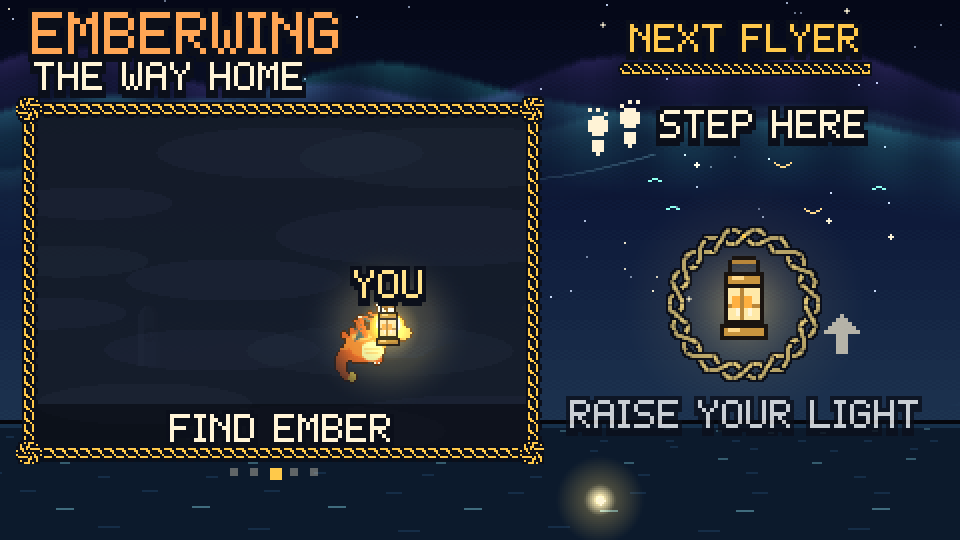
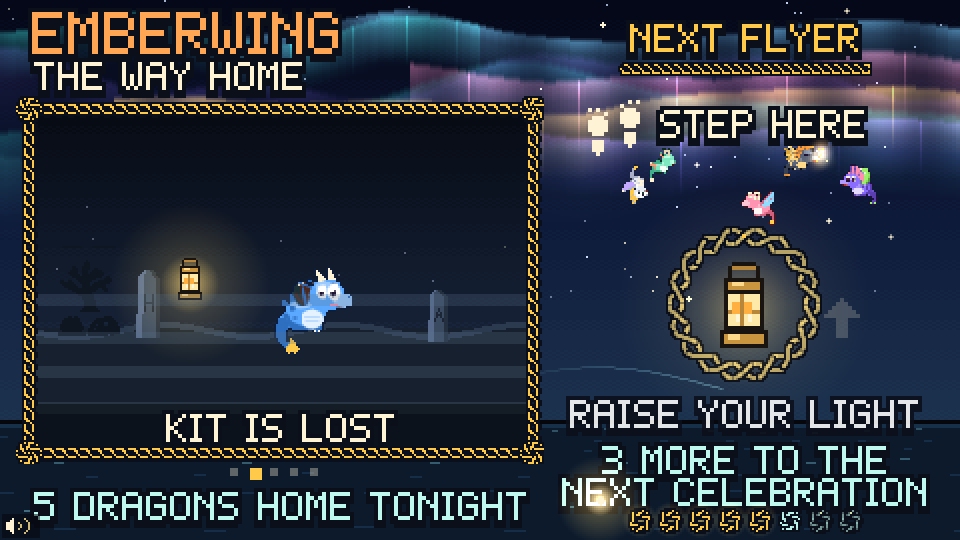
docs, pitch images and notes for the dragons, flock, sound and routes

diff --git a/README.md b/README.md
@@ -2,11 +2,11 @@
 
 A 40-second lobby interactive for the Walla Walla Symphony's **Symphonicon** (Nov 5, Cordiner Hall), paired with *From the Motion Picture How to Train Your Dragon* (John Powell), played in Act II by the Walla Walla Symphony Youth Orchestra.
 
-A young dragon, Ember, is blown off course in a storm. The guest is the lighthouse keeper. Their light finds Ember in the fog, teaches it to fly, and guides it home to its flock. Each guest's flight path becomes a ribbon in the aurora and stays there for the rest of the evening.
+Emberwings are a kind of small dragon. Every guest rescues a different one: a young emberwing with its own name, colors, wings, horns, tail and personality (Pip sneezes sparks, Juniper loves loops, Bramble is shy at first...) is blown off course in a storm. The guest is the lighthouse keeper. Their light finds the dragon in the fog, teaches it to fly, and guides it home. Every dragon that makes it home joins the flock for the rest of the evening, and its flight path becomes a ribbon in the aurora. The flock on screen is always exactly the dragons people brought home tonight, and every 8th one gets a celebration.
 
 - **One pointer, no clicks.** Mouse, touch, or a motion-capture prop all work. Every "button" is *hover and hold* (a knotwork ring fills in about 1 second).
-- **Works with the sound off.** Every cue is visual. Audio is optional ambience, off by default.
-- **Static site.** Vite plus vanilla JS and Canvas. No server code. Runs on GitHub Pages or any static host.
+- **Sound on, but never needed.** An original folk-style score builds through the flight, with a real brass swell. Every cue is also visual, so the game plays and reads the same muted.
+- **Static site.** Vite plus vanilla JS and Canvas. No server code, no sound files. Runs on GitHub Pages or any static host.
 
 ![Attract screen](design/01-attract-next-flyer.png)
 
@@ -40,7 +40,8 @@ npm run build && npm run preview
 | `?mocapFlipX=1` / `?mocapFlipY=1` | Mirror mocap axes (camera facing the guest) |
 | `?debug` | Start with the debug overlay on |
 | `?scene=flight` | Jump straight to a scene (`attract`, `find`, `flight`, `home`, `end`) |
-| `?seed=5` | Deterministic randomness (for testing) |
+| `?route=1` | Pin one flight route (`0` sea stacks, `1` rain squall, `2` standing stones) instead of taking turns |
+| `?seed=5` | Deterministic randomness, including which dragons get picked (for testing) |
 
 ## Operator hotkeys
 
@@ -52,29 +53,38 @@ Hidden from guests. Nothing on screen mentions them.
 | **R** | Reset to attract |
 | **S** | Skip to the next scene |
 | **D** | Debug overlay (FPS, scene timer, pointer x/y, speed, idle time, mocap status) |
-| **C** | Clear tonight's aurora. Asks on screen first: **Y** clears, anything else keeps |
-| **M** | Ambient audio on/off (off by default) |
+| **C** | Clear tonight's aurora and flock (every saved dragon). Asks on screen first: **Y** clears, anything else keeps |
+| **M** | Sound on/off. On by default, remembered across refreshes |
 | **K** | Calibrate the mocap rig: point at the 4 corner rings and hold still (see below). In the calibration screen **Space** grabs a corner, **Esc** cancels, **Delete** clears the saved calibration |
 | **G** | Reduced motion: AUTO (follows the OS setting), FORCED REDUCED, FORCED FULL. Reduced = no shake, softer flashes, calmer flight camera. Remembered across refreshes |
 | Arrows / Space | Move the pointer / "hold" (desk testing only) |
 
 Before a shift, run through [PLAYTEST.md](PLAYTEST.md) on the real projector.
 
-The aurora (every guest's ribbon, plus the "N dragons home tonight" count) is saved to `localStorage`, so a refresh or a crashed tab doesn't wipe the wall. It starts fresh automatically on a new calendar day. Use **C** to clear it by hand.
+The night (every rescued dragon's seed and name, its ribbon, and the "N dragons home tonight" count) is saved to `localStorage`, so a refresh or a crashed tab doesn't wipe the wall or the flock. It starts fresh automatically on a new calendar day. Use **C** to clear it by hand.
+
+## Sound
+
+Sound is on by default: an original folk-style tune in D mixolydian (harp, tin whistle, drone, hand drum, strings, brass), all synthesized live with Web Audio, so there are no sound files. It's gentle on the attract screen, sparse and windy while you search the fog, builds layer by layer through the flight, and the brass takes the tune at the swell. Hoops chime in key, on the beat; finding the dragon gets a warm chord; every dragon chirps (smaller ones higher). None of it is taken from the film score.
+
+- **Start the station with any key.** Browsers block sound until someone presses a key or clicks. When that's the case the laptop shows **PRESS ANY KEY TO START** and the lantern waits. That first key only starts the station (it doesn't also skip or reset), except **M**, which starts it muted.
+- **Phones** don't get that screen. The first touch turns the sound on.
+- **Speaker icon** in the bottom left corner: waves = sound running, an **X** = muted with **M**, slowly blinking waves = waiting for a key or a touch. The **D** overlay also shows the audio state.
+- Everything you hear has a visual version (hoop bursts, the found burst, the horn icon and rays at the swell, little chirp marks at each dragon's mouth), so a muted run is the same game.
 
 ## Timing (all in `src/config.js`)
 
 | Scene | Target | Notes |
 |---|---|---|
-| Attract | loop | 1 s hold on the lantern starts a run |
-| Title card | 1.3 s | "EMBER IS LOST!" before Find Ember, "NOW FLY HOME!" before the flight. The next scene is paused underneath (`DUR.TITLE`) |
-| Find Ember | ~5-15 s | One instruction at a time, each up at least 2 s: MOVE YOUR LIGHT, FIND THE EYES, HOLD STILL (with a tiny framed demo). The hold ring sits on the eyes and pauses (never resets) when the light slips off. Hints get stronger with active pointing time: bigger eyes at 4 s, a dotted trail to the eyes at 6.5 s, the beam leaning toward them at 9 s. Ember only comes to the light as a last resort at 10.5 s, and the guest still does the hold. Then a 1.6 s "YOU FOUND EMBER!" moment |
-| Flight | ~2-5 s tutorial + 18 s | EMBER FOLLOWS YOUR LIGHT (with an arrow), then FLY THROUGH THE HOOPS. Hoop 1 waits next to Ember until you fly through it (5 s cap), then the timeline starts: 7 more hoops, one every 2 s on the beat, always 8 in total with a "3 / 8" counter. Brass swell at 62% of the timeline, climb at 90%. Autopilot only after 3 s of a still pointer |
-| Home | 6.5 s | Ribbon lifts into the aurora, a shimmer runs across the sky, the counter rolls up, then "HEAR IT LIVE IN ACT II" |
-| End card | 3 s | "ACT II", the title, "LISTEN FOR THE BRASS!". Hold the small lantern to skip |
+| Attract | loop | 1 s hold on the lantern starts a run. Tonight's flock circles above the lantern, and a countdown shows how many more dragons until the next celebration |
+| Title card | 1.3 s | "PIP IS LOST!" before Find, "NOW FLY HOME!" before the flight. The next scene is paused underneath (`DUR.TITLE`) |
+| Find | ~5-15 s | One instruction at a time, each up at least 2 s: MOVE YOUR LIGHT, FIND THE EYES, HOLD STILL (with a tiny framed demo). The hold ring sits on the eyes and pauses (never resets) when the light slips off. Hints get stronger with active pointing time: bigger eyes at 4 s, a dotted trail to the eyes at 6.5 s, the beam leaning toward them at 9 s. The dragon only comes to the light as a last resort at 10.5 s, and the guest still does the hold. Then a 1.6 s "YOU FOUND PIP!" moment |
+| Flight | ~2-5 s tutorial + 18 s | PIP FOLLOWS YOUR LIGHT (with an arrow), then FLY THROUGH THE HOOPS. Hoop 1 waits next to the dragon until you fly through it (5 s cap), then the timeline starts on the next beat: 7 more hoops, one every 2 s on the beat, always 8 in total with a "3 / 8" counter. Brass swell 12 s into the timeline (on a downbeat), where everyone already home tonight flies out to join you. Climb at 90%. Autopilot only after 3 s of a still pointer. Three routes take turns (sea stacks at dusk, a rain squall into clearing sky, low over standing stones under early aurora): only the scenery changes |
+| Home | 4.6 s | The guest's dragon lands in the circle with the rest of tonight's flock, its path lifts into the aurora, and the counter appears once it's on the new number. Every 8th dragon adds a 3.6 s celebration (`DUR.CELEBRATE`): the whole flock does a flyover, the aurora flares, "8 DRAGONS HOME!" |
+| Dragon card | 5 s | The rescued dragon's portrait and name, "THE 9TH EMBERWING HOME TONIGHT", its quirk, and "HEAR IT LIVE IN ACT II / LISTEN FOR THE BRASS!". Hold the small lantern to skip |
 | Scene fades | 0.4 s | `DUR.FADE` |
 
-Measured by the Playwright suite: **~40 s** for a guest who knows what to do, **~49 s** for one who never finds Ember on their own (the test fails above 50 s), and about 52 s for a completely clueless guest who wanders the whole time (`tests/clueless.spec.js`, notes in `notes/clueless-after.md`). **Idle reset:** 10 s without input during Find Ember or Flight returns to attract. The assists only count time while someone is actually pointing, so an abandoned game resets instead of playing itself.
+Measured by the Playwright suite: **~40 s** for a guest who knows what to do, **~49 s** for one who never finds the dragon on their own (the test fails above 50 s), and about 49 s for a completely clueless guest who wanders the whole time (`tests/clueless.spec.js`, `tools/clueless.mjs`). The 8th, 16th, 24th... guest gets 3.6 s more for the celebration. Muted runs take exactly as long. **Idle reset:** 10 s without input during Find or Flight returns to attract. The assists only count time while someone is actually pointing, so an abandoned game resets instead of playing itself. Notes on this round of changes are in `notes/phase3.md`.
 
 **Slow laptops:** the game clock follows real time even when frames drop (it catches up in small steps, `LOOP` in `config.js`), so a choppy laptop doesn't make runs longer. Below about 4 fps it starts to slow down, and a frozen or backgrounded tab only moves the game forward a quarter second when it comes back. The YOURS! label after a run lasts `DUR.YOURS_LABEL` (15 s).
 
@@ -99,7 +109,7 @@ If the light doesn't land where the prop points (offset, squashed, or a keystone
 
 ### Phones
 
-On touch screens the light sits about 40 px above your fingertip (`INPUT.TOUCH_LIFT`), so your finger doesn't cover it or Ember.
+On touch screens the light sits about 40 px above your fingertip (`INPUT.TOUCH_LIFT`), so your finger doesn't cover it or the dragon.
 
 ### HTTPS and WebSockets (important for GitHub Pages)
 
@@ -160,16 +170,21 @@ npm test
 
 This builds the site, serves it, and runs Playwright:
 
-- **`tests/fullrun.spec.js`**: a scripted guest plays a whole run by pointer only. It asserts 35-45 s, that the ribbon persists across a refresh, that a guest who never finds Ember still finishes in time, and that the end card can be skipped.
-- **`tests/idle.spec.js`**: walking away during Find Ember or Flight resets to attract after about 10 s.
+- **`tests/fullrun.spec.js`**: a scripted guest plays a whole run by pointer only. It asserts 35-50 s, that the ribbon persists across a refresh, that a guest who never finds the dragon still finishes within 50 s, and that the dragon card can be skipped.
+- **`tests/idle.spec.js`**: walking away during Find or Flight resets to attract after about 10 s.
 - **`tests/input.spec.js`**: the mocap pointer path, the clear confirmation, the portrait "rotate your phone" hint, and the touch offset.
 - **`tests/runs.spec.js`**: three flights in a row on one page all reach Home, and a cold first run and a second run both get all 8 hoops, each on screen at least 1.5 s before it arrives.
-- **`tests/clueless.spec.js`**: three wandering guests in a row: Find Ember never finishes before 10 s, every instruction is up at least 2 s, every run gets the same 8 hoops.
-- **`tests/story.spec.js`**: the story beats show up when they should: "EMBER IS LOST!" first, the Act II line during Home, the brass swell's wind-up, firing and flock join, and "YOURS!" on attract after a finished run (but not after an idle reset).
+- **`tests/clueless.spec.js`**: three wandering guests in a row: Find never finishes before 10 s, every instruction is up at least 2 s, every run gets the same 8 hoops.
+- **`tests/story.spec.js`**: the story beats show up when they should: the title card first, the Act II line during Home, the brass swell's wind-up, firing and flock join, and "YOURS!" on attract after a finished run (but not after an idle reset).
+- **`tests/dragons.spec.js`**: 70 dragons in a row: no name repeats until the list runs out, and each looks different from the one before. The flock on attract, at the swell and at home always adds up to the saved dragons (0, 1, 3, 12, 13 and 20 home), the counter stays hidden until it lands, the 8th and 16th dragons get a celebration, **C** clears the flock, a cold first run of the night ends with exactly one dragon home, and the dragon card shows the right dragon and number.
+- **`tests/sound.spec.js`**: sound is on by default and **M** is remembered, a browser that blocks audio gets "press any key" and that key does nothing else, phones skip it and unlock on the first touch, a whole run works muted, and every hoop and the swell land on the beat.
+- **`tests/routes.spec.js`**: guests in a row get the three routes in turn with identical hoops, and every route plays all the way home.
 - **`tests/framerate.spec.js`**: at 8 fps the game clock still keeps real time, a frozen tab only nudges the game forward, and a full run at ~8 fps lands within 2 s of a normal one.
 - **`tests/motion.spec.js`**: reduced motion follows the OS setting, **G** cycles and is remembered, no shake and a calmer camera when reduced.
 - **`tests/calibration.spec.js`**: a deliberately misaligned pretend rig is fixed by **K**, the calibration survives a refresh, Delete clears it, and a mouse isn't affected.
-- **`tests/screenshots.spec.js`**: `npm run shots` writes every scene at 1920×1080 and phone landscape to `tests/screens/`.
+- **`tests/screenshots.spec.js`**: `npm run shots` writes every scene at 1920×1080 and phone landscape to `tests/screens/`, including all three routes, the celebration, the dragon card and the "press any key" screen.
+
+The tests press a key right after loading, the same way the operator starts the station, because a browser holds the sound (and so the lantern) until then. With `npm run dev` running, `node tools/pitch.mjs` regenerates the pitch images in `design/`.
 
 ## Code map
 
@@ -177,9 +192,11 @@ This builds the site, serves it, and runs Playwright:
 src/config.js          every tunable number (durations, tempo, thresholds, palette)
 src/main.js            loop, letterbox scaling, test hooks
 src/input/             Input (one pointer), adapters (mouse/touch/mocap/keys), OneEuroFilter, Dwell
-src/core/              SceneManager, Beat (120 BPM), Camera, Particles, AuroraStore, Audio, Operator
-src/art/               font (pixel font), knotwork, ember, world, aurora, icons, sprites
-src/scenes/            Attract, FindEmber, Flight, Home, EndCard
+src/core/              SceneManager, Beat (120 BPM), Camera, Particles, AuroraStore (ribbons + dragons), Operator,
+                       dragons (seeded dragon parts + names), Audio (mixing, unlock, scheduler), synth (instruments), score (the tune)
+src/art/               font (pixel font), knotwork, dragon (parts-based dragon drawing), quirks, flock, routes (the 3 flights),
+                       world, aurora, icons, sprites
+src/scenes/            Attract, FindDragon, Flight, Home, EndCard (the dragon card)
 ```
 
 Everything renders into a 480×270 buffer that is scaled up with nearest-neighbor (4× on a 1080p projector), so it stays crisp from across the lobby.

diff --git a/DESIGN_INTENT.md b/DESIGN_INTENT.md
@@ -6,29 +6,37 @@
 | | | |
 |---|---|---|
 | ![](design/02-find-the-eyes.png) | ![](design/03-wing-glow-burst.png) | ![](design/04-brass-swell.png) |
-| *FIND THE EYES, with a trail of light to them* | *YOU FOUND EMBER!* | *The brass swell: the flock joins* |
+| *FIND THE EYES, with a trail of light to them* | *YOU FOUND (this guest's dragon)!* | *The brass swell: everyone already home flies out to meet you* |
+
+![](design/09-every-dragon-is-different.png)
 
 ## Guest experience overview
 
 A guest steps onto the footprints in front of a 10-foot projection, raises a big lantern prop, and becomes the keeper of a tiny northern lighthouse. In **about 40 to 50 seconds**, their light finds a frightened young dragon in a storm, gives it the courage to fly, and guides it home under the aurora. There is no losing, no reading, and no clicking. The guest just points a light.
 
-The line behind them is the audience. While they wait, a storybook on screen turns its own pages and a "ghost" player shows exactly what to do. By the time their turn comes, they already know how to play.
+**Every guest rescues a different dragon.** Emberwings are a kind of small dragon, and each one is built from parts: body color, wing shape, horns or frill or antlers, tail tip, eyes, size, and a little personality (one sneezes sparks, one loves loops, one is shy at first). Each gets its own name, never repeated in a night. Your dragon is yours: you see its name on the title card, it flies with its own quirks, and at the end you get its card.
+
+**The flock is everyone's dragons.** Every dragon that makes it home stays for the rest of the evening. The flock circling on the attract screen, swooping in at the brass swell, and circling the stones at home is always exactly the dragons people brought home tonight, so the number on screen and the dragons you can count always agree. Every 8th dragon home sets off a celebration.
+
+The line behind them is the audience. While they wait, a storybook on screen turns its own pages, showing the dragon that's lost right now, and a "ghost" player shows exactly what to do. Above it, tonight's flock circles and a countdown says how many more dragons until the next celebration. By the time their turn comes, they already know how to play.
 
 ## Story beats
 
 | Beat | Time | What the guest sees and does |
 |---|---|---|
-| **Next Flyer** | loop | A storybook shows the storm, the lost dragon, a ghost player demo, and "Hear it in Act II". The screen says *STEP HERE · RAISE YOUR LIGHT*. Holding the light on the lantern for 1 s starts the story. |
-| **1. Find Ember** | ~6-15 s | A title card: *EMBER IS LOST!* Then a dark, rainy cliff in the fog. The guest's lantern beam, shining from the lighthouse (a nod to the bat-signal proof of concept), cuts through the fog. One instruction at a time, each with a tiny demo: *MOVE YOUR LIGHT*, then *FIND THE EYES*, then *HOLD STILL*. A knotwork ring on the eyes fills while the light is on them and simply pauses if it slips off. If someone is struggling, the hints get stronger (bigger eyes, a trail of light to them, the beam leaning their way), but the guest always does the finding. Then everything holds still for **YOU FOUND EMBER!** as Ember crouches, pops up and wiggles, wings lit again. |
-| **2. First Flight** | ~20 s | A title card: *NOW FLY HOME!* Then *EMBER FOLLOWS YOUR LIGHT*, with an arrow from the light to Ember, and *FLY THROUGH THE HOOPS*. The first hoop waits right next to Ember until the guest steers through it. Then 7 more arrive on the beat, one every two seconds, with a "3 / 8" counter and a track showing the journey from the lighthouse to home. The flight starts under slate-blue skies and warms to gold. Ember cheers at every hoop and does a barrel roll after three in a row. At the **brass swell** the sky holds its breath, then golden rays, a knotwork shockwave and confetti burst out, a horn icon appears, and four flock-mates swoop in with light trails. A missed hoop is never a failure: Ember does a happy loop and the hoop's sparkles find it anyway. |
-| **3. Home** | 6.5 s | The flock circles a stone circle under the northern lights. The path the guest flew is drawn across the sky like a comet, then lifts and becomes a **new aurora ribbon that stays for the rest of the evening**. A shimmer runs across the whole aurora, the counter rolls up (*37 DRAGONS HOME TONIGHT*), and a banner appears: *HEAR IT LIVE IN ACT II*. |
-| **4. Hear it live** | 3 s | Three big lines: *ACT II · How to Train Your Dragon · Listen for the brass!* Then the screen returns to *Next Flyer*. The full credit (Walla Walla Symphony Youth Orchestra) is on the storybook's music page for the line to read while they wait. |
+| **Next Flyer** | loop | A storybook shows the storm, *PIP IS LOST*, a ghost player demo, and "Hear it in Act II". Tonight's flock circles above the lantern and a countdown reads *3 MORE TO THE NEXT CELEBRATION*. The screen says *STEP HERE · RAISE YOUR LIGHT*. Holding the light on the lantern for 1 s starts the story. |
+| **1. Find** | ~6-15 s | A title card: *PIP IS LOST!* Then a dark, rainy cliff in the fog. The guest's lantern beam, shining from the lighthouse (a nod to the bat-signal proof of concept), cuts through the fog. One instruction at a time, each with a tiny demo: *MOVE YOUR LIGHT*, then *FIND THE EYES*, then *HOLD STILL*. A knotwork ring on the eyes fills while the light is on them and simply pauses if it slips off. If someone is struggling, the hints get stronger (bigger eyes, a trail of light to them, the beam leaning their way), but the guest always does the finding. Then everything holds still for **YOU FOUND PIP!** as the dragon crouches, pops up and wiggles, wings lit again, and a warm chord plays. |
+| **2. First Flight** | ~20 s | A title card: *NOW FLY HOME!* Then *PIP FOLLOWS YOUR LIGHT*, with an arrow from the light to the dragon, and *FLY THROUGH THE HOOPS*. The first hoop waits right next to the dragon until the guest steers through it. Then 7 more arrive on the beat, one every two seconds, each with a chime, a "3 / 8" counter, and a track showing the journey from the lighthouse to home. Three routes take turns between guests: out past sea stacks as the storm turns to dusk and gold, into a rain squall and out into clear sky with a rainbow, or low over standing stones while the aurora comes out. The dragon cheers at every hoop, does a barrel roll after three in a row, and shows off its own quirk. At the **brass swell** the music and the sky hold their breath, then the brass bursts in with golden rays, a knotwork shockwave and confetti, and **everyone already home tonight swoops in**, each with a chirp. The first guest of the night does it alone. A missed hoop is never a failure: the dragon does a happy loop and the hoop's sparkles find it anyway. |
+| **3. Home** | ~5 s | The guest's dragon lands in a circle with tonight's flock above the standing stones under the northern lights, and they chirp hello one by one. The path the guest flew is drawn across the sky like a comet, then lifts and becomes a **new aurora ribbon that stays for the rest of the evening**. A shimmer runs across the whole aurora and the counter lands on the new number (*37 DRAGONS HOME TONIGHT*). **Every 8th dragon** adds a few seconds: the whole flock breaks out for a flyover, the aurora flares and *8 DRAGONS HOME!* fills the sky. |
+| **4. The dragon card** | 5 s | A card for the dragon the guest rescued, made for a phone photo: portrait, name, *THE 9TH EMBERWING HOME TONIGHT*, its quirk, and *HEAR IT LIVE IN ACT II · How to Train Your Dragon · Listen for the brass!* Then the screen returns to *Next Flyer*. The full credit (Walla Walla Symphony Youth Orchestra) is on the storybook's music page for the line to read while they wait. |
 
 ## The one feeling
 
 > **"I helped someone brave find their way home, and my light is still up there."**
 
-It should feel warm, windswept, hopeful and proud. Every guest succeeds, and every guest leaves a visible mark in a shared sky that grows all evening. That's the "this space is for everyone" moment: by intermission, the wall shows a hundred flights woven together.
+It should feel warm, windswept, hopeful and proud. Every guest succeeds, and every guest leaves a visible mark in a shared sky that grows all evening: their ribbon in the aurora and their dragon in the flock. That's the "this space is for everyone" moment: by intermission, the wall shows a hundred flights woven together and a sky full of dragons that each have a name.
+
+![](design/07-celebration.png)
 
 ## Station layout needs
 
@@ -37,16 +45,19 @@ It should feel warm, windswept, hopeful and proud. Every guest succeeds, and eve
 - **Screen:** one of the large walls beside the main entry door, or the 10 × 6 ft rear-projection screen. Designed for 1920 × 1080, readable from 15 ft (prompts are about 4-9 inches tall on a 10-ft image).
 - **Floor:** a footprints decal about 10-12 ft from the screen, centered. The line queues to one side so the players and the waiting guests share the view without blocking the projector.
 - **Prop:** a big cardboard lantern tracked by motion capture drives the on-screen light. A mouse or touch works as a backup, with no code changes.
-- **Operator:** one laptop running the game locally (no internet needed). Hidden keys: fullscreen, reset, skip, debug, clear, audio.
-- **Sound:** not required. The lobby is loud and the game is fully visual. Optional ambience can be turned on if the space allows.
+- **Operator:** one laptop running the game locally (no internet needed). Press any key once to start the station (browsers need that before they allow sound). Hidden keys: fullscreen, reset, skip, debug, clear, sound, calibrate, reduced motion. A small speaker icon in the corner shows whether sound is running.
+- **Sound:** on by default through the laptop or the room's speakers, but never required. The lobby is loud, so every sound has a visual twin and the game reads exactly the same muted (**M**).
 - **Throughput:** about 40 to 50 s per guest plus a short handoff, so roughly 30 guests per 30-minute shift, or about 90 over the 90-minute pre-show. The game resets itself after 10 s without input.
 - **Accessibility:** no flashing faster than 3 times per second, no fail states, and color is never the only signal (brightness, shape and motion carry every cue). It works seated, and a phone version works in landscape via the public URL.
 
 ## How it connects to the music
 
-The program notes describe Powell's score as drawing on **Scottish, Celtic, Nordic and Irish folk** influences, with **soaring flight music thundering in the brass**. With the sound off, the game makes those ideas *visible*:
+The program notes describe Powell's score as drawing on **Scottish, Celtic, Nordic and Irish folk** influences, with **soaring flight music thundering in the brass**. The game uses those ideas in what you see *and* what you hear, without borrowing a note of the film:
 
+- **An original folk tune.** A short melody in D mixolydian (the flattened seventh gives it a Scottish and Irish lilt, with a Scotch snap in the rhythm) on harp, tin whistle, drone and hand drum, generated live in the browser. It's gentle while the line waits, sparse and windy in the fog, and builds layer by layer through the flight.
+- **The brass swell, shown and heard.** At the swell the music holds its breath for a drum roll, then a full brass chord lands on the downbeat and the brass takes over the tune, while golden rays, a shockwave and the whole flock fill the screen. Muted, the visuals carry the same moment.
 - **Folk art as the visual language.** Knotwork interlace frames every ring, meter and border. Standing stones carry glowing runes. The world is storybook northern islands, sea cliffs, and aurora skies. It is entirely original: no characters, places or designs from the films.
-- **Tempo you can see.** The whole world breathes at 120 BPM. Wind ribbons brighten on every beat, rune rings arrive on the beat, and stones pulse in time.
-- **The brass swell, shown not heard.** The flight builds like the score: hesitant, then confident, then golden rays, a wider sky and the flock joining together.
-- **A bridge to the concert.** The final card and the storybook send every guest into the hall listening for this moment when the Youth Orchestra plays it in Act II.
+- **Tempo you can see and hear.** The whole world breathes at 120 BPM. Wind ribbons brighten on every beat, rune rings arrive on the beat and chime in key, and stones pulse in time.
+- **A bridge to the concert.** The dragon card and the storybook send every guest into the hall listening for this moment when the Youth Orchestra plays it in Act II.
+
+![](design/08-three-routes.png)

diff --git a/PLAYTEST.md b/PLAYTEST.md
@@ -11,13 +11,14 @@ Write results in the blanks. Anything that fails goes in the notes at the bottom
 - [ ] Laptop on power (not battery saver), plugged into the projector, projector at full resolution (1920×1080 if it supports it)
 - [ ] Close everything else (other browsers, VMs, Docker, chat apps). Open Activity Monitor > Memory: memory pressure should be green and swap used near zero. When we built this, a laptop deep in swap froze every app for minutes at a time, the game included
 - [ ] Open the game. Live site: `https://tabishnavaid.github.io/emberwing/`, or offline on the laptop: `npm run build && npm run preview`, then `http://localhost:4173`
+- [ ] The screen says **PRESS ANY KEY TO START**. Press any key (that key only starts the station, it won't skip or reset anything). The speaker icon in the bottom left now shows waves. If it shows an X, sound was muted with M last time: press **M**
 - [ ] Press **F** for fullscreen. No browser bars or cursor visible on the wall
 - [ ] Press **D** for the debug overlay
 
 ## 2. Frame rate (debug overlay, top left)
 
 - [ ] FPS on the attract screen: ____
-- [ ] FPS during the brass swell (busiest moment, about 12s into the flight): ____
+- [ ] FPS during the brass swell (busiest moment, about 15s into the flight, when the flock swoops in): ____
 - [ ] Anything under 30 is worth writing down. The game clock keeps real time down to about 4 fps, so a slow laptop won't make runs longer, but it will look choppy
 - [ ] Press **D** again to hide it
 
@@ -25,11 +26,11 @@ Write results in the blanks. Anything that fails goes in the notes at the bottom
 
 Stand 15 ft from the wall (measure it), at the far edge of where the line will be.
 
-- [ ] Attract: NEXT FLYER, STEP HERE, RAISE YOUR LIGHT, the storybook captions, "N DRAGONS HOME TONIGHT"
-- [ ] Find Ember: EMBER IS LOST!, FIND THE EYES, HOLD STEADY. Can you see the two glowing eyes in the fog?
-- [ ] Flight: FLY!, SOAR!, the lighthouse-to-home track along the top
-- [ ] Home: HOME!, the counter, HEAR IT LIVE IN ACT II
-- [ ] End card: ACT II, the title, LISTEN FOR THE BRASS!
+- [ ] Attract: NEXT FLYER, STEP HERE, RAISE YOUR LIGHT, the storybook captions, "N DRAGONS HOME TONIGHT", "N MORE TO THE NEXT CELEBRATION". Can you tell the circling dragons apart?
+- [ ] Find: PIP IS LOST! (the dragon's name changes every run), FIND THE EYES, HOLD STILL. Can you see the two glowing eyes in the fog?
+- [ ] Flight: PIP FOLLOWS YOUR LIGHT, FLY THROUGH THE HOOPS, SOAR!, the lighthouse-to-home track along the top
+- [ ] Home: PIP IS HOME!, the counter, HEAR IT LIVE IN ACT II
+- [ ] Dragon card: the name, THE 9TH EMBERWING HOME TONIGHT, the quirk, LISTEN FOR THE BRASS!. Take a phone photo of it from where a guest would stand. Is it readable in the photo?
 - [ ] Anything washed out by the room lights? Note it with where you were standing: ____
 
 ## 4. Calibration (mocap rig)
@@ -52,7 +53,9 @@ Start the stopwatch the moment the lantern ring finishes filling. Stop it when t
 - [ ] Do the instructions (MOVE YOUR LIGHT / FIND THE EYES / HOLD STILL, then EMBER FOLLOWS YOUR LIGHT / FLY THROUGH THE HOOPS) read from 15 ft? ____
 - [ ] Does the first-timer get through the waiting tutorial hoop on their own? ____
 - [ ] Ember follows the light without lag or jitter? ____
-- [ ] The dragon count went up by one after each run
+- [ ] The dragon count went up by one after each run, and one more dragon is circling on the attract screen
+- [ ] Each run had a different dragon (name and look) and the routes took turns: sea stacks, rain squall, standing stones
+- [ ] Play until the count reaches 8 (or press **S** to skip through runs): the 8th run gets the celebration flyover and "8 DRAGONS HOME!"
 
 ## 6. Idle reset
 
@@ -60,12 +63,14 @@ Start the stopwatch the moment the lantern ring finishes filling. Stop it when t
 - [ ] Same thing during the flight: ____ s
 - [ ] Rest the prop on a table pointing at the screen (still, but present). Still resets after about 10s?
 
-## 7. Audio (never checked by anyone yet)
+## 7. Sound (on by default, nobody has heard it on the real speakers yet)
 
-- [ ] Press **M**. Toast says AUDIO ON. Do you hear a soft drone, wind, and some random notes? ____
-- [ ] Do a run with audio on. Chimes on rings, a chord when Ember's wings light up, a rising arpeggio at home?
-- [ ] Is it too loud or too quiet for the lobby? Is it annoying after 10 minutes?
-- [ ] Press **M** again. Silence. Leave it off unless the team decides otherwise
+- [ ] On attract: a soft harp and a quiet drone, the tune on a whistle every other time round. Not annoying after 10 minutes? ____
+- [ ] During a run: wind and rain in the fog, a warm chord when the dragon is found, the tune building through the flight, a chime on every hoop, a drum roll and then a big brass chord at SOAR!, chirps from each dragon at home
+- [ ] Does the brass swell land right when SOAR! appears (not late)? ____
+- [ ] Too loud or too quiet for the lobby? Set the laptop or room volume so it's clear at the footprints but doesn't fight the youth orchestra: ____
+- [ ] Press **M**: toast says SOUND OFF, the speaker icon shows an X, silence. Refresh: still off. Press **M** again to turn it back on
+- [ ] On a phone: no "press any key" screen, and sound starts on the first touch
 
 ## 8. Other operator keys
 

diff --git a/notes/phase3.md b/notes/phase3.md
@@ -1,0 +1,48 @@
+# phase 3: every guest gets their own dragon
+
+playtesting the live site it felt generic, and some things contradicted each other: the same dragon
+got lost every run while the counter said dragons were already home, "3 dragons home" showed while
+5 dragons flew past, and copy like "listen for the brass" made no sense with no sound.
+
+| thing | after phase 2 / clarity pass | after phase 3 |
+|---|---|---|
+| playwright suite | 81 tests | 112 tests (dragons, sound, routes specs + more screenshots) |
+| typical run | ~40.0s | ~40.2s |
+| never finds the dragon | ~49.2s | ~49.1s (still fails above 50s) |
+| clueless wandering guest (seed 11) | ~52s | ~49s |
+| a whole run muted | | ~40.1s, same as with sound |
+| every 8th guest (celebration) | | +3.6s |
+| idle reset | 10.4s | 10.4s |
+
+## what changed
+1. **every guest rescues a different dragon.** `src/core/dragons.js` builds one from a seed: 13 body
+   colors, 7 wing colors, 4 wing shapes (bat, leaf, feather, moth), 5 heads (horns, ram curls,
+   frill, antlers, crest), 6 tail tips, 3 markings, 6 eye colors, 5 sizes, 5 quirks (sneezes
+   sparks, loves loops, wobbly flier, shy at first, bouncy). the next dragon always gets a new body
+   color and different shapes from the last one. 56 names, no repeats in a night until they run out.
+   the dragon that's lost shows up in the storybook on attract, and stays lost (same dragon) if a
+   guest walks away.
+2. **the flock is the dragons people brought home.** each ribbon in localStorage now also stores
+   its dragon's seed and name. attract, the swell and home all draw from that: newest 12 up close,
+   the rest as specks. near + far always equals the count (tested at 0, 1, 3, 12, 13, 20). the first
+   guest of the night flies home to an empty sky. the counter only shows up once it's on the new
+   number. C clears the dragons with the ribbons.
+3. **celebration every 8th dragon** (`FLOCK.CELEBRATE_EVERY`): the flock breaks out of the circle
+   for a flyover, the aurora flares once, "8 DRAGONS HOME!". attract counts down to it.
+4. **dragon card** instead of the end card: 2x portrait, name, "THE 9TH EMBERWING HOME TONIGHT",
+   quirk, act II line. 5s, skippable. home went 6.5s -> 4.6s to pay for it.
+5. **sound, on by default.** `src/core/score.js` is an original tune in D mixolydian, `synth.js`
+   makes every instrument with web audio (karplus-strong harp, whistle, drone, hand drum, strings,
+   brass, bells, chirps), `Audio.js` schedules it on the audio clock lined up with the game's beat.
+   the flight timeline now snaps to the nearest beat and the swell moved to 12s (a downbeat, was
+   ~11.2s) so the hoops chime and the brass lands on the music. browsers block sound until a key
+   press: the station shows "PRESS ANY KEY TO START" (phones unlock on the first touch). speaker
+   icon in the corner shows on / muted / waiting. M is remembered.
+6. **three routes** (`src/art/routes.js`), one per guest in turn: sea stacks at dusk, a rain squall
+   that clears into a rainbow, low over standing stones under early aurora. same hoops, same timing.
+7. deploy-pages v4 -> v5 (v4 ran on node 20).
+
+## things nobody has checked yet
+- what the music actually sounds like on the lobby speakers (it was only checked by rendering it
+  offline: levels, no clipping, the swell being the loudest moment)
+- whether 12 dragons circling on attract is readable from 15ft

diff --git a/CREDITS.md b/CREDITS.md
@@ -16,9 +16,9 @@ Only these small crops ship with the game. The full packs are **not** in the rep
 We also reviewed **Sprout Lands** by Cup Nooble ("Assets from Sprout Lands, by Cup Nooble"), plus Cozy Characters, Cozy Farm, Cozy Interiors and Cozy Town. None of their art is used in the game: their top-down farm and town style doesn't fit the side-view sea-cliff world.
 
 ## Original work (made for this project)
-- **Ember and the flock:** original dragon designs drawn procedurally in code (`src/art/ember.js`).
+- **The dragons:** original emberwing designs built from parts in code (`src/core/dragons.js`, `src/art/dragon.js`): body colors, wing shapes, horns, frills, antlers, crests, tail tips, markings and personality quirks. The 56 names are our own list, picked to avoid anything from the films.
 - **World art:** cliffs, lighthouse, sea stacks, standing stones, invented rune glyphs (not a real alphabet), clouds, fog, aurora, knotwork, icons.
 - **Pixel font:** a hand-made 5×7 font drawn in code (`src/art/font.js`).
-- **Ambient audio:** generated live with Web Audio (drone, wind, random notes from a pentatonic scale). Off by default.
+- **Music and sound effects:** an original folk-style tune in D mixolydian and every sound effect (harp, tin whistle, drone, hand drum, strings, brass, bells, chirps, wind and rain), composed for this project and synthesized live with Web Audio (`src/core/score.js`, `src/core/synth.js`). No recordings or samples are used.
 
 No characters, names, places, logos, dragon designs or music from the *How to Train Your Dragon* films are used.
